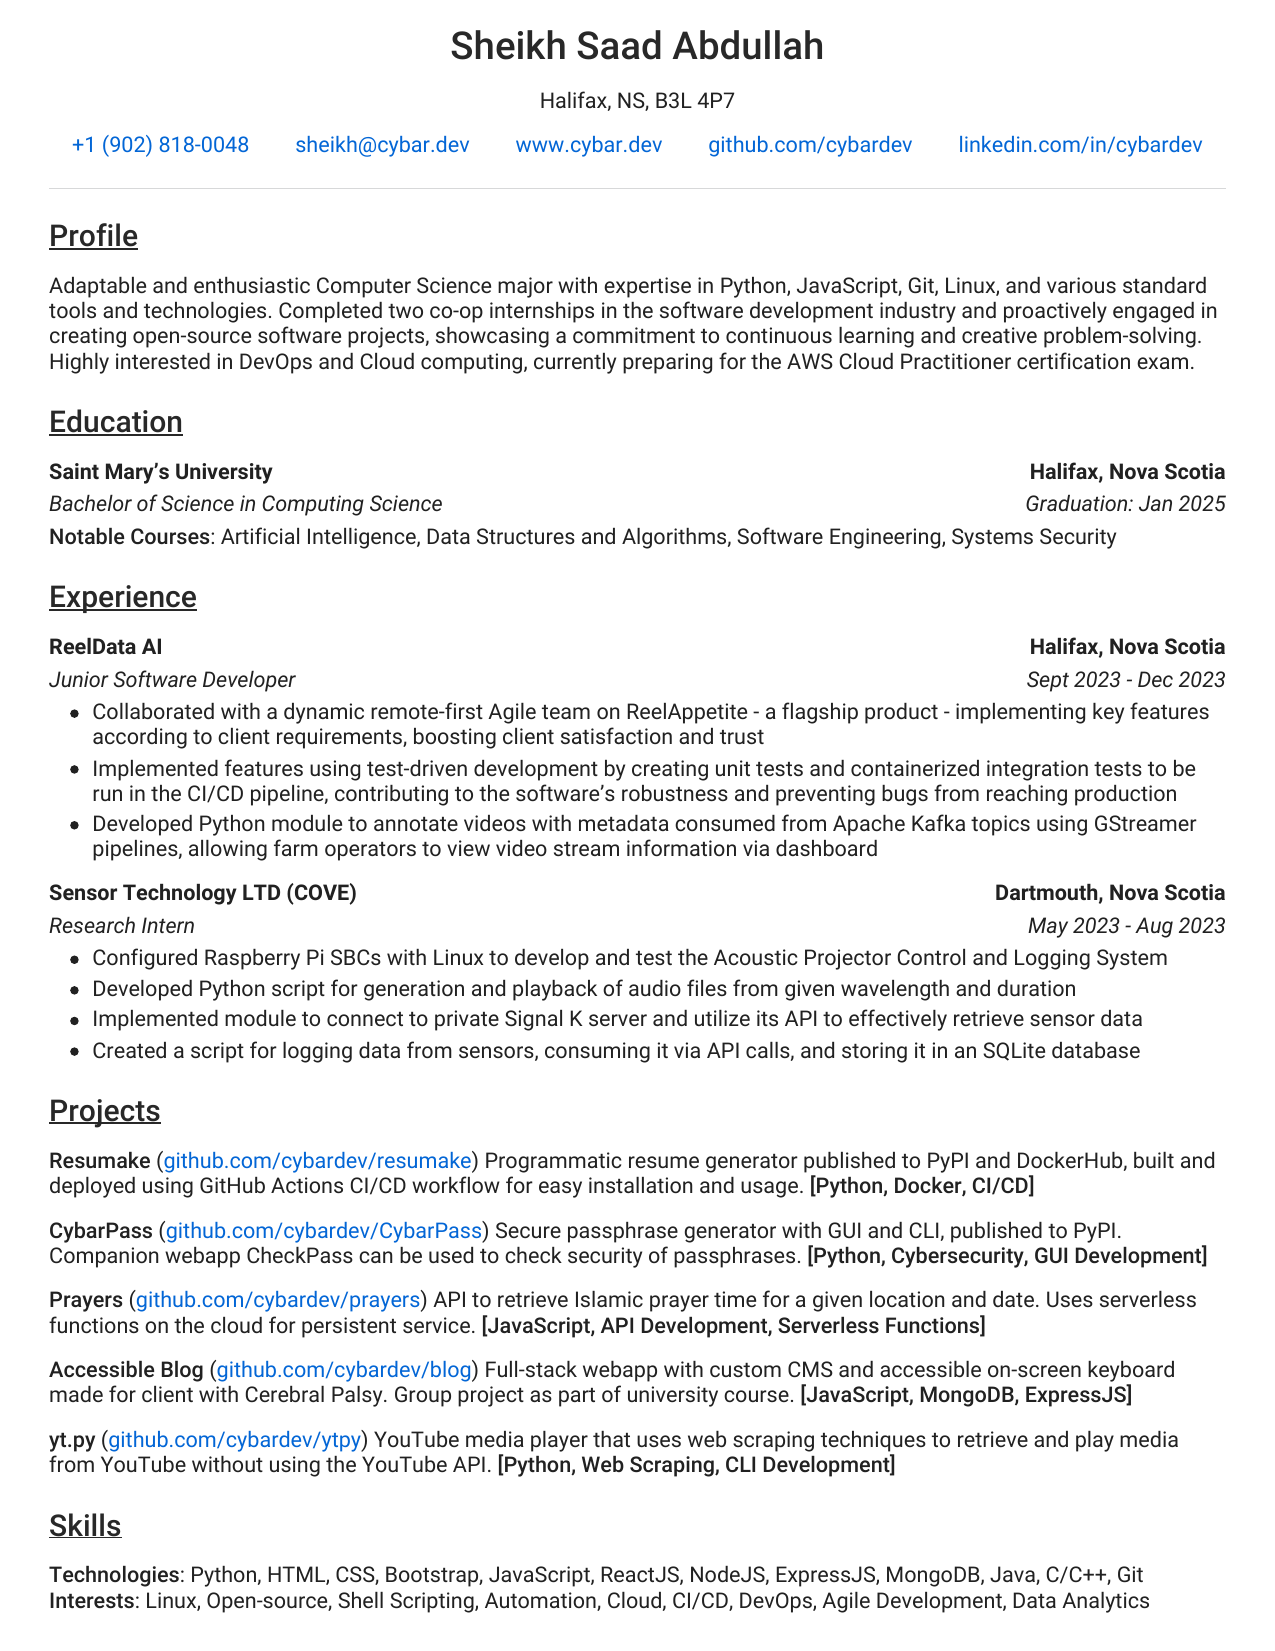
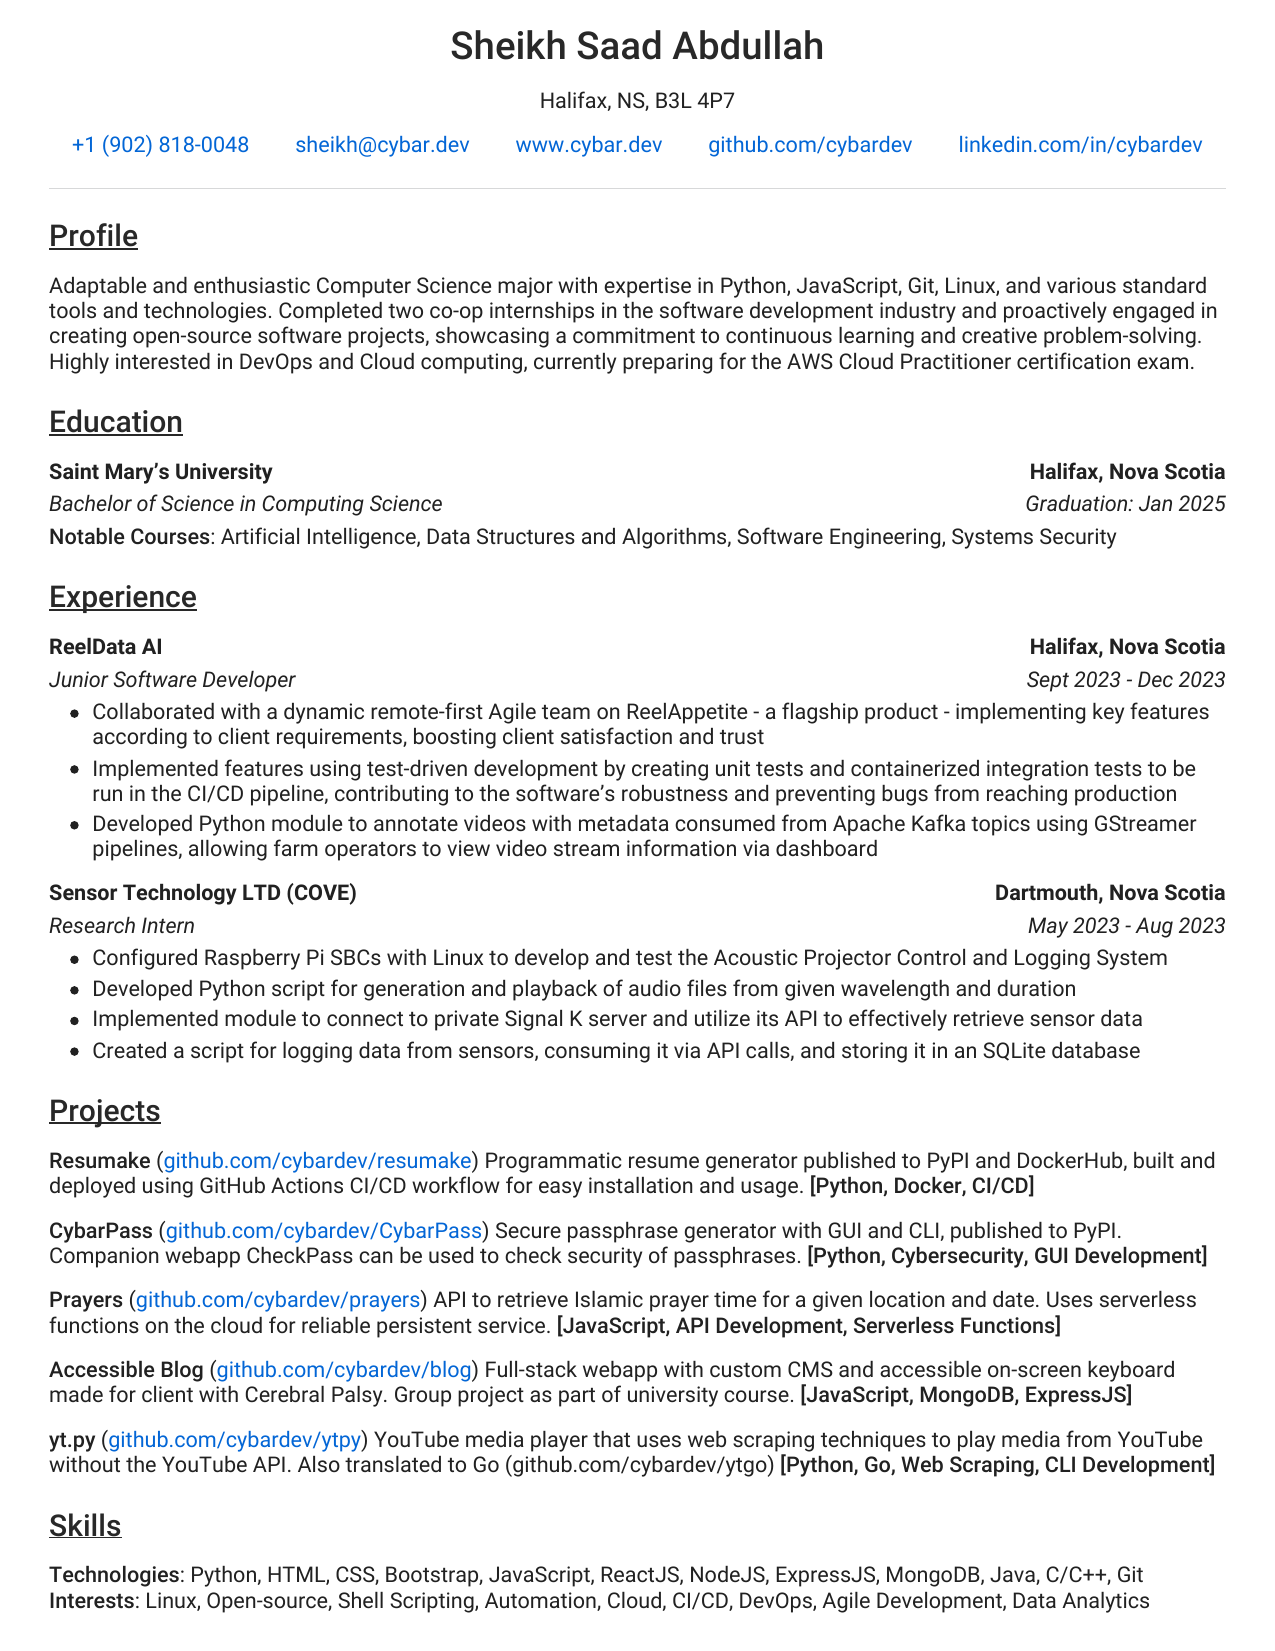
re: update resume

diff --git a/static/assets/Resume_Sheikh_Saad_Abdullah.md b/static/assets/Resume_Sheikh_Saad_Abdullah.md
@@ -47,11 +47,11 @@ Adaptable and enthusiastic Computer Science major with expertise in Python, Java
 
 **CybarPass** ([github.com/cybardev/CybarPass](https://github.com/cybardev/CybarPass)) Secure passphrase generator with GUI and CLI, published to PyPI. Companion webapp CheckPass can be used to check security of passphrases. **[Python, Cybersecurity, GUI Development]**
 
-**Prayers** ([github.com/cybardev/prayers](https://github.com/cybardev/prayers)) API to retrieve Islamic prayer time for a given location and date. Uses serverless functions on the cloud for persistent service. **[JavaScript, API Development, Serverless Functions]**
+**Prayers** ([github.com/cybardev/prayers](https://github.com/cybardev/prayers)) API to retrieve Islamic prayer time for a given location and date. Uses serverless functions on the cloud for reliable persistent service. **[JavaScript, API Development, Serverless Functions]**
 
 **Accessible Blog** ([github.com/cybardev/blog](https://github.com/cybardev/blog)) Full-stack webapp with custom CMS and accessible on-screen keyboard made for client with Cerebral Palsy. Group project as part of university course. **[JavaScript, MongoDB, ExpressJS]**
 
-**yt.py** ([github.com/cybardev/ytpy](https://github.com/cybardev/ytpy)) YouTube media player that uses web scraping techniques to retrieve and play media from YouTube without using the YouTube API. **[Python, Web Scraping, CLI Development]**
+**yt.py** ([github.com/cybardev/ytpy](https://github.com/cybardev/ytpy)) YouTube media player that uses web scraping techniques to play media from YouTube without the YouTube API. Also translated to Go (github.com/cybardev/ytgo) **[Python, Go, Web Scraping, CLI Development]**
 
 ## Skills
 
